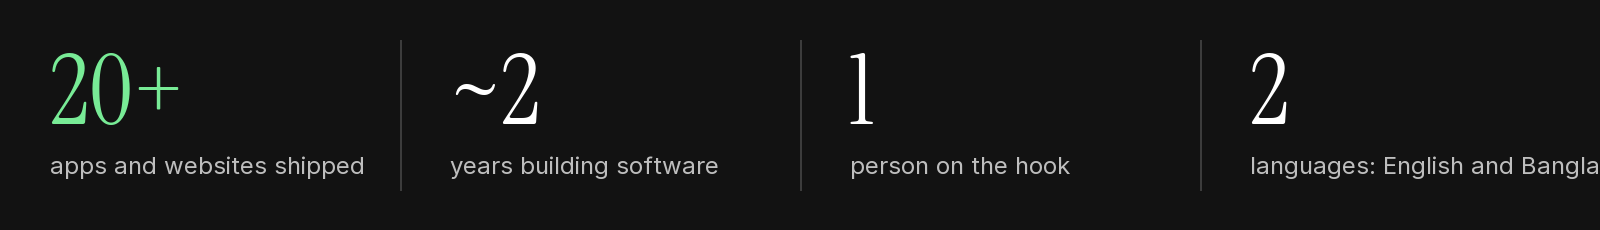
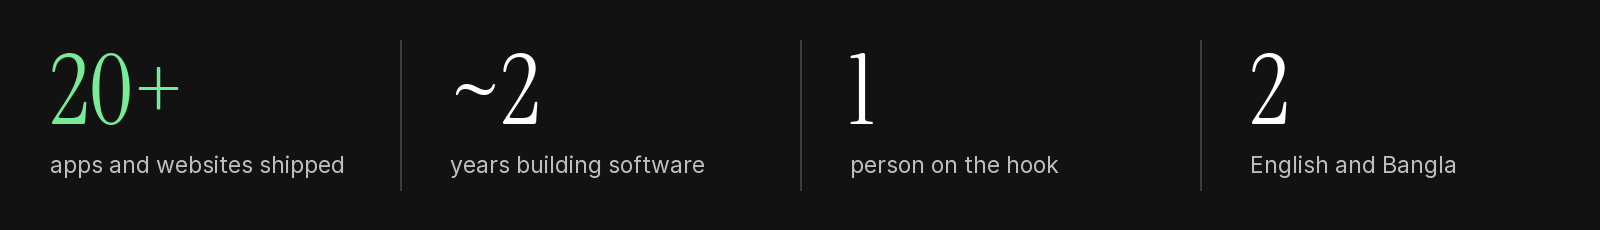
Fix clipped stat label

diff --git a/README.md b/README.md
@@ -15,7 +15,7 @@
   🟢 <b>Available for new work</b>
 </p>
 
-<img src="assets/stats.png" alt="20+ apps and websites shipped, about 2 years building, 1 person on the hook, 2 languages: English and Bangla" width="100%">
+<img src="assets/stats.png" alt="20+ apps and websites shipped, about 2 years building, 1 person on the hook, 2 languages, English and Bangla" width="100%">
 
 <br>
 
